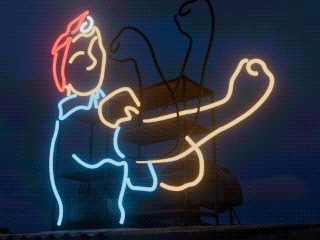
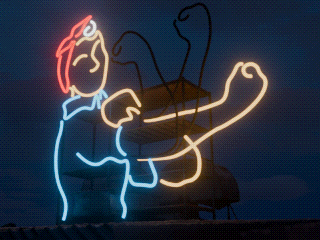
examples: add a medical scan animation and refresh the neon sign's frames

diff --git a/examples/mighty_fx/examples/screens/playback/animated_gif_recoloured.py b/examples/mighty_fx/examples/screens/playback/animated_gif_recoloured.py
@@ -1,0 +1,79 @@
+from mighty_fx import MightyFX, SPCE
+from picovector import color
+from playback import GIFPlayer
+from screens import Reserve, Screen280
+
+"""
+Recolour a whole animation as it plays, by rewriting the one colour table its frames share.
+
+A GIF's frames are indices into a table of colours, and every frame of a sheet reads the same
+table, so writing an entry changes that colour in all of them at once. Here the scan sweeps
+up in green, and each pass comes back in the colour of what it found.
+
+Each entry is rewritten at its own brightness, read once before anything changes: the art is
+drawn as one hue at many levels, so keeping those levels is what keeps the glow and the
+anti-aliasing along every line. A flat colour written over the lot would lose both.
+
+The pass changes colour on the frame the sweep turns around on, which the file holds for half
+a second, so the change is seen while the picture is still rather than during the sweep.
+
+Press "Boot" to exit the program.
+"""
+
+# Constants
+GIF_PATH = "/examples/assets/medscan.gif"   # The GIF to play, beside this example
+ROTATION = 90                    # Quarter turn, to suit how the screen is mounted
+
+# What each pass comes back as, taken in turn. The first is near enough what the file was drawn
+# in, so a run starts looking as its artist left it
+REPORTS = (color.rgb(0, 255, 64), color.rgb(255, 196, 40),
+           color.rgb(255, 64, 48), color.rgb(64, 200, 255))
+
+# Create a MightyFX object with SP/CE port A set up for screens, and a 2.8" screen on it. The
+# reserve is what keeps a source larger than the panel ahead of the wire
+mighty = MightyFX(spce_a=SPCE.SCREEN)
+screen = Screen280(mighty.spce_a, reserve=Reserve.FULL_SIZE_IMAGES)
+
+# The scan has two ends, a whole body and a whole skeleton, so it turns around rather than
+# jumping from one to the other
+player = GIFPlayer(GIF_PATH, ping_pong=True)
+
+# Any frame's palette reaches the table they all share, so this is the whole animation's colours
+palette = player.sheet.sprite(0).palette
+
+# How bright each entry was drawn, out of 255, read before the first rewrite. An entry is one
+# level of one hue, so its brightest channel is its level
+LEVELS = [max(palette[index].r, palette[index].g, palette[index].b)
+          for index in range(player.sheet.sprite(0).palette_size)]
+
+# The frames a pass turns around on
+ENDS = (0, player.frames - 1)
+
+
+def report(tint):
+    """Write one colour over the whole animation, each entry at the brightness it was drawn."""
+    for index, level in enumerate(LEVELS):
+        palette[index] = color.mix(color.black, tint, level)
+
+
+print(f"{player.frames} frames sharing {len(LEVELS)} colours, recoloured on frames {ENDS}")
+
+pass_number = 0
+report(REPORTS[0])
+
+# Wrap the code in a try block, to catch any exceptions (including KeyboardInterrupt)
+try:
+    while not mighty.boot_pressed():
+        # The screen refreshes faster than the GIF changes, so only send a new frame
+        if player.has_advanced():
+            # Recoloured before the frame is sent, so the held end frame is already the new
+            # colour and the sweep that follows stays in it
+            if player.frame in ENDS:
+                pass_number += 1
+                report(REPORTS[pass_number % len(REPORTS)])
+
+            screen.update(player.image, rotation=ROTATION)
+
+# Stop any running effects and turn off all the outputs
+finally:
+    mighty.shutdown()

diff --git a/examples/mighty_fx/examples/screens/playback/dual_animated_gifs.py b/examples/mighty_fx/examples/screens/playback/dual_animated_gifs.py
@@ -1,0 +1,58 @@
+from mighty_fx import MightyFX, SPCE
+from playback import GIFPlayer
+from screens import Reserve, Screen280, ScreenPair
+
+"""
+Play a different animated GIF on each of two screens, each its own size, length and rate.
+
+A player holds one animation's position, so two animations need two of them. Neither knows
+about the other: each has its own length and its own delays, and each takes its position
+from the clock, so two loops of different periods drift in and out of step as they run.
+
+Both panels are sent together, so a frame appears when the pair next comes round rather than
+at the moment its own file asks for it. Each animation keeps its own speed; what neither
+keeps is its own beat exactly.
+
+Neither file is the shape of a panel, and they are not the same shape as each other. A
+source is centred either way: the coin is smaller than the panel and takes the background
+down both sides, and the scan is larger, so what runs past the edges is split between them.
+Neither needs an offset to sit where it should.
+
+Press "Boot" to exit the program.
+"""
+
+# Constants
+GIF_PATH_A = "/examples/assets/pirate_coin.gif"     # The GIF to play on the screen on SP/CE port A
+GIF_PATH_B = "/examples/assets/medscan.gif"         # The GIF to play on the screen on SP/CE port B
+ROTATION = 90                                       # Quarter turn, to suit how the screens are mounted
+
+# Create a MightyFX object with both SP/CE ports set up for screens, and a 2.8" screen on
+# each. Two screens each converting their own full-size frame is what the reserve buys.
+mighty = MightyFX(spce_a=SPCE.SCREEN, spce_b=SPCE.SCREEN)
+pair = ScreenPair(Screen280(mighty.spce_a, reserve=Reserve.FULL_SIZE_IMAGES),
+                  Screen280(mighty.spce_b, reserve=Reserve.FULL_SIZE_IMAGES))
+
+# A player each, since the two GIFs declare their own delays and are different lengths. The scan
+# sweeps one way only, so it plays as a ping-pong and sweeps back down: run forward, its last frame
+# is a whole skeleton and would jump straight to an outline
+player_a = GIFPlayer(GIF_PATH_A)
+player_b = GIFPlayer(GIF_PATH_B, ping_pong=True)
+
+# The ground each file was authored over, read from its own corner, so the strips either side of
+# the coin match its edges instead of being black. Every placement setting takes a value per screen,
+# which is what keeps the scan's own ground its own, whether or not any of it shows
+grounds = player_a.image.get(0, 0), player_b.image.get(0, 0)
+
+# Wrap the code in a try block, to catch any exceptions (including KeyboardInterrupt)
+try:
+    while not mighty.boot_pressed():
+        # Either one changing sends both panels, a pair presenting together. The or short
+        # circuits, so B is not asked when A has already advanced, and that costs at most
+        # one redundant redraw: a player's position comes from the clock and never from how
+        # often it was asked
+        if player_a.has_advanced() or player_b.has_advanced():
+            pair.update(player_a.image, player_b.image, rotation=ROTATION, bg_color=grounds)
+
+# Stop any running effects and turn off all the outputs
+finally:
+    mighty.shutdown()

diff --git a/examples/mighty_fx/examples/screens/playback/animated_gif_ping_pong.py b/examples/mighty_fx/examples/screens/playback/animated_gif_ping_pong.py
@@ -5,10 +5,10 @@ from screens import Screen280
 """
 Play an animated GIF forward then back, dwelling at each turn.
 
-ping_pong walks the frames forward then back, so an animation with two ends, such as an
-arm flexing, never jumps from its last frame to its first. The coin is drawn to loop
-instead, so first_as_last plays its first frame again at the far end and it spins a whole
-turn each way.
+ping_pong walks the frames forward then back, so an animation with two ends, such as the
+scan in dual_animated_gifs.py, never jumps from its last frame to its first. The coin is
+drawn to loop instead, so first_as_last plays its first frame again at the far end and it
+spins a whole turn each way.
 
 hold is the wait where it turns around, one value for both ends or two. Both ends are the
 coin face here, so one value keeps the pauses even. A dwell comes out of the reported
